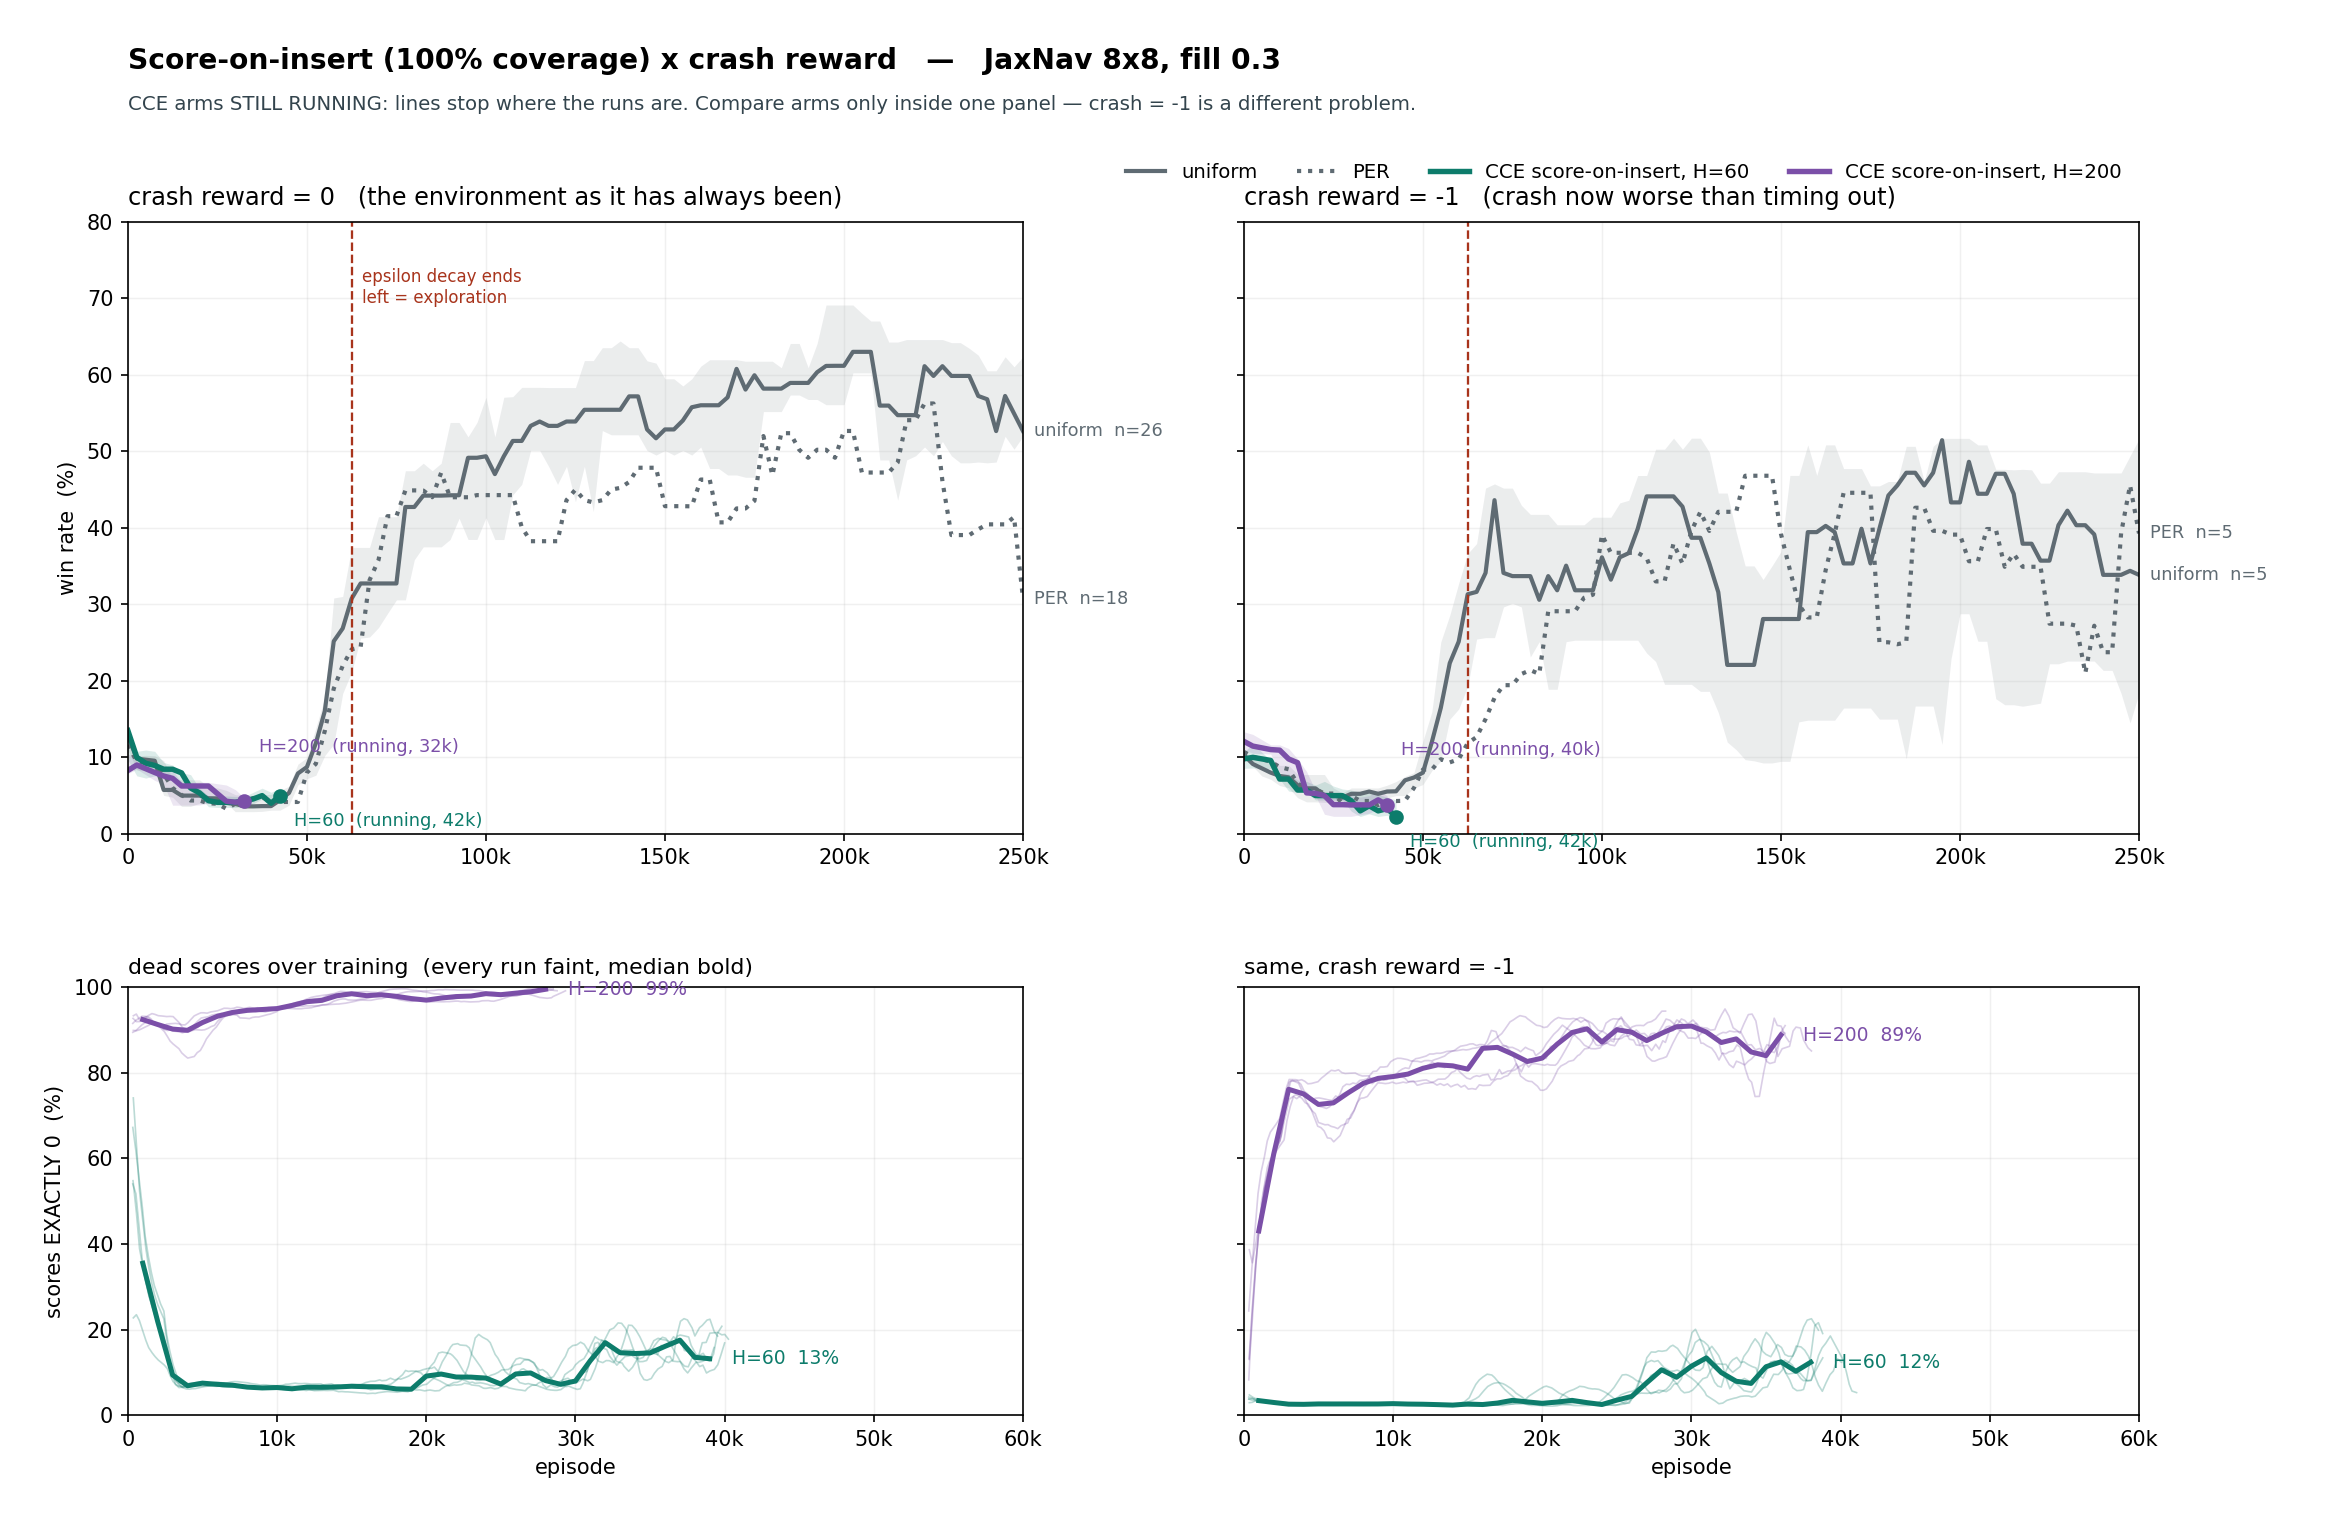
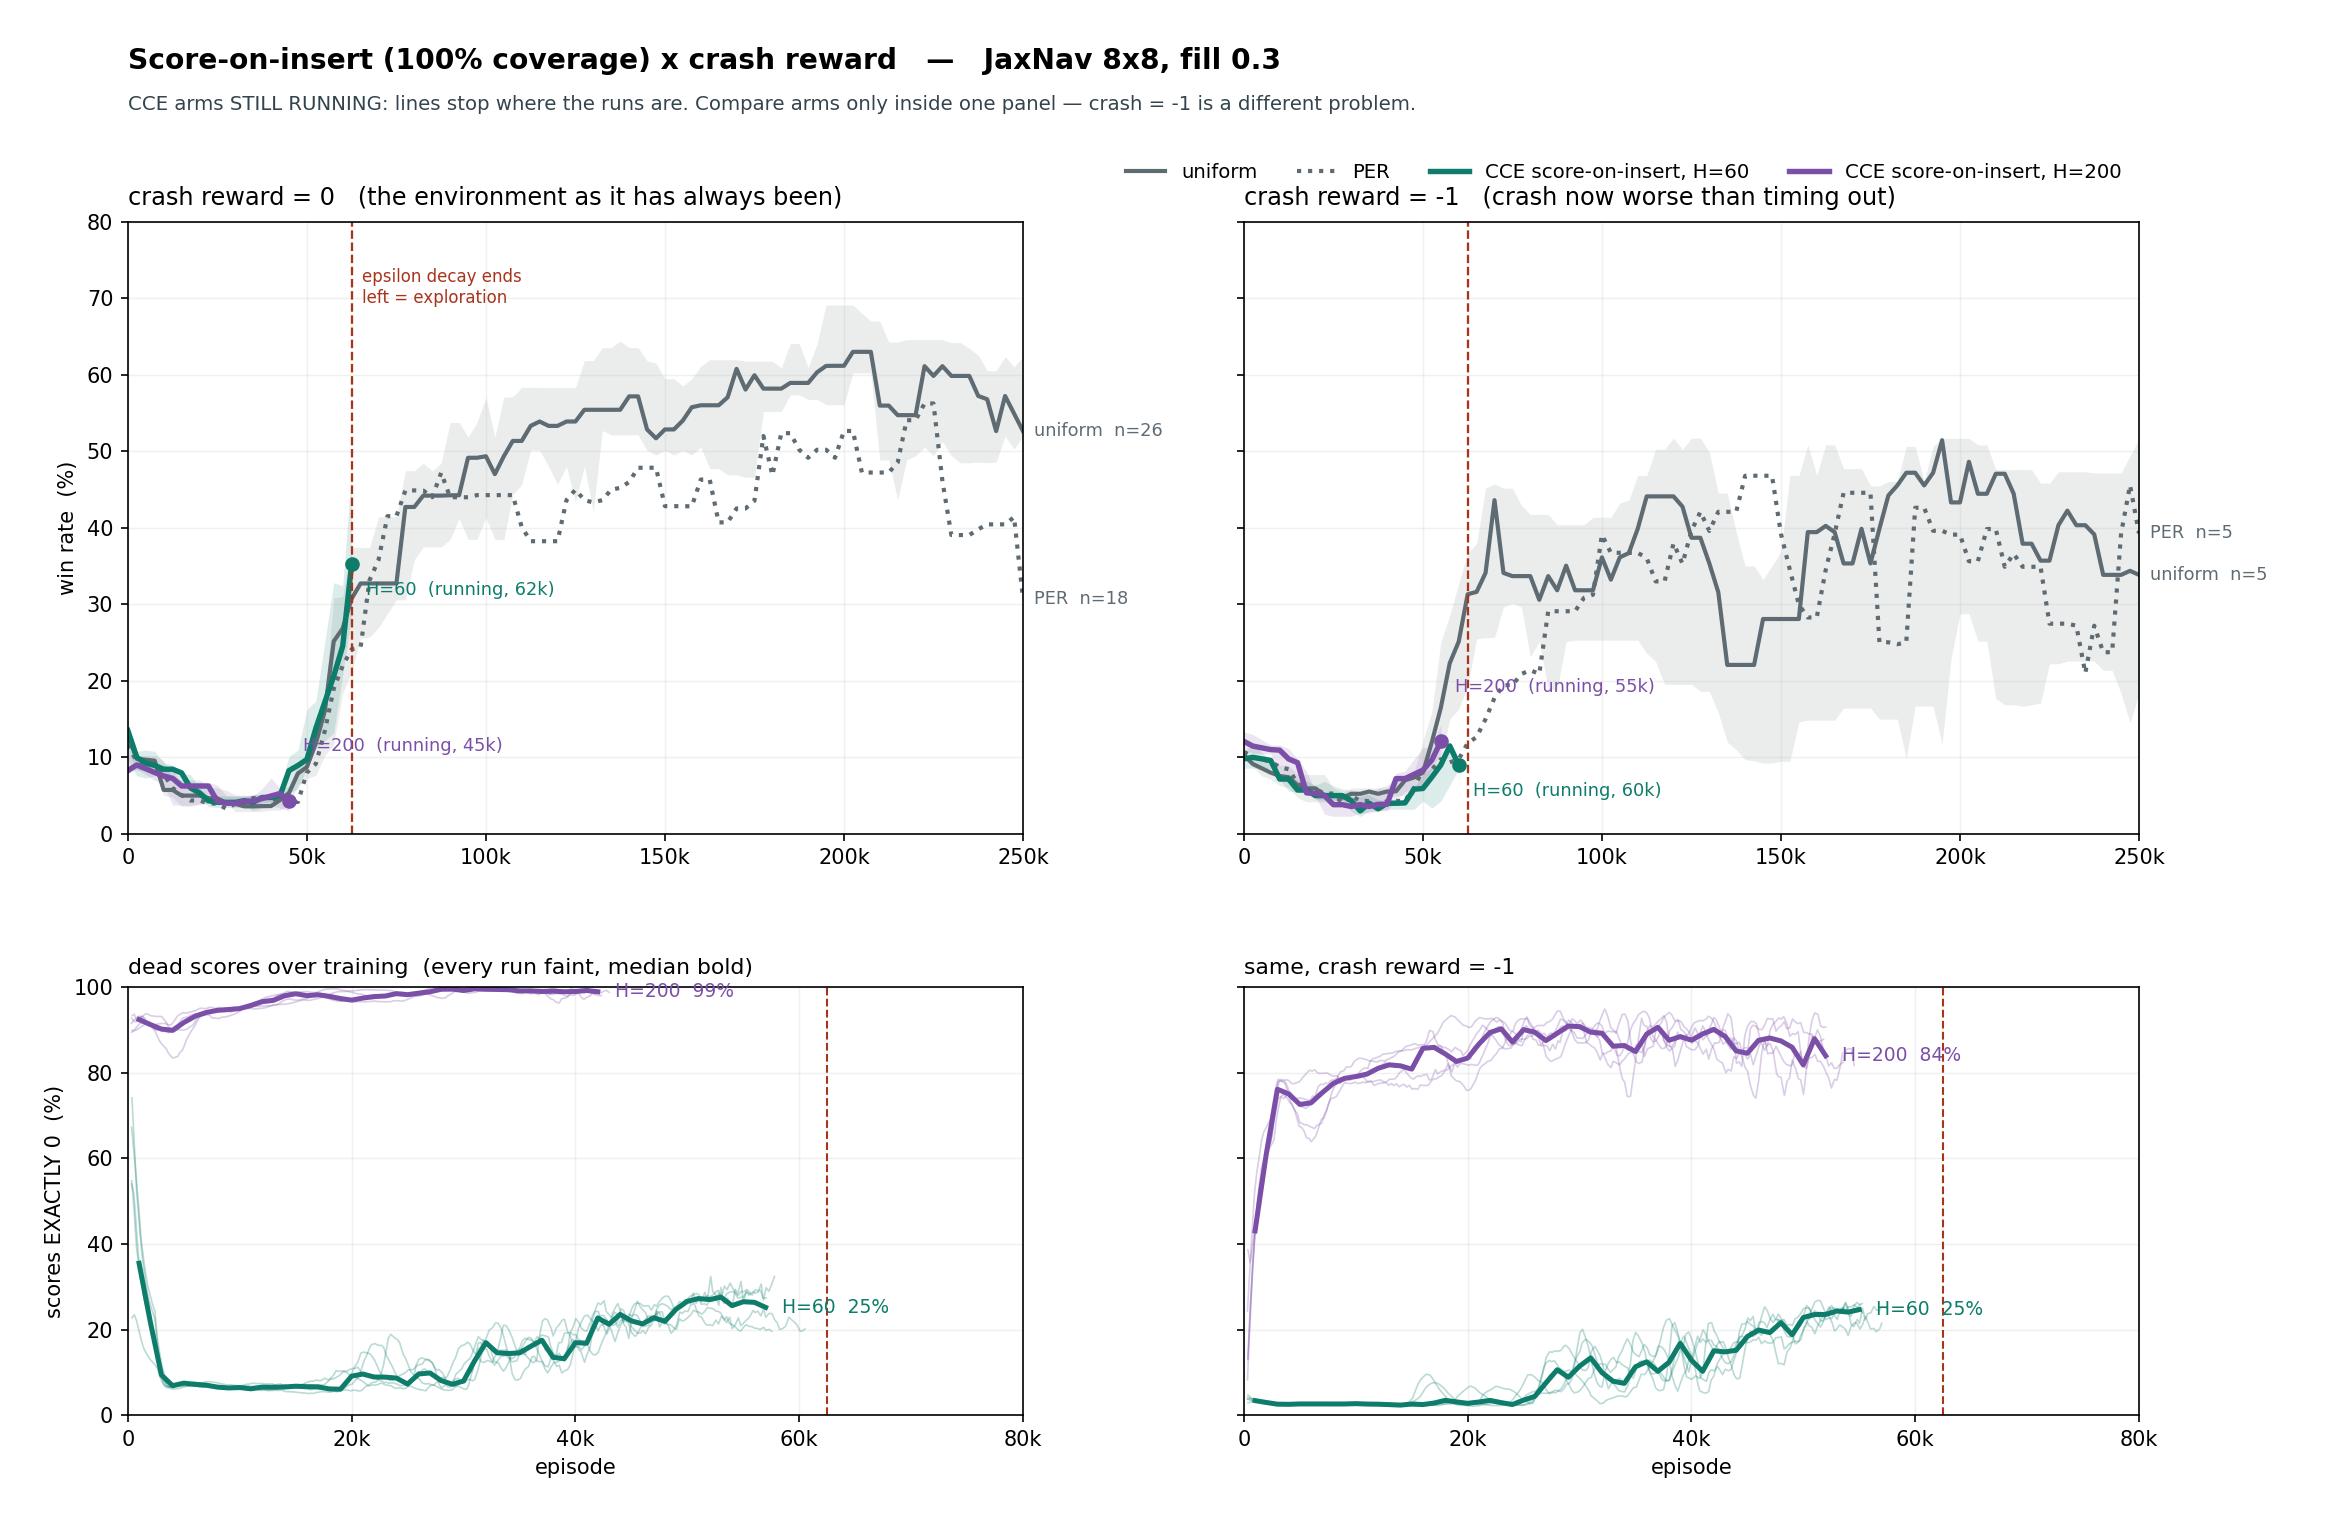
soi_curves: dead-score axis grows with the runs; mark epsilon decay
Claude-Session: https://claude.ai/code/session_01LTwz2FieXcd96TvbSkaRAQ

diff --git a/analysis/claim2/soi_curves.py b/analysis/claim2/soi_curves.py
@@ -124,12 +124,15 @@ def main():
                 if okz.size:
                     zax.text(grid[okz[-1]] + 1_500, med[okz[-1]], f"H={h}  {med[okz[-1]]:.0f}%",
                              fontsize=9, color=colr, va="center")
-        zax.set_xlim(0, 60_000); zax.set_ylim(0, 100)
+        zmax = max([r[-1, 0] for a in zs.values() for r in a] + [60_000])
+        zmax = int(np.ceil(zmax / 20_000) * 20_000)       # grows as the runs do
+        zax.set_xlim(0, zmax); zax.set_ylim(0, 100)
         zax.set_ylabel("scores EXACTLY 0  (%)", fontsize=10)
         zax.set_xlabel("episode", fontsize=10)
         zax.grid(alpha=.18, lw=.7)
-        zax.set_xticks([0, 10_000, 20_000, 30_000, 40_000, 50_000, 60_000])
-        zax.set_xticklabels(["0", "10k", "20k", "30k", "40k", "50k", "60k"])
+        zt = np.arange(0, zmax + 1, 20_000)
+        zax.set_xticks(zt); zax.set_xticklabels([f"{t//1000}k" if t else "0" for t in zt])
+        zax.axvline(G.EPS_DECAY, color="#a8341c", lw=1.0, ls="--")
 
     top[0].text(G.EPS_DECAY + 3_000, 74, "epsilon decay ends\nleft = exploration",
                 fontsize=8, color="#a8341c", va="top")
